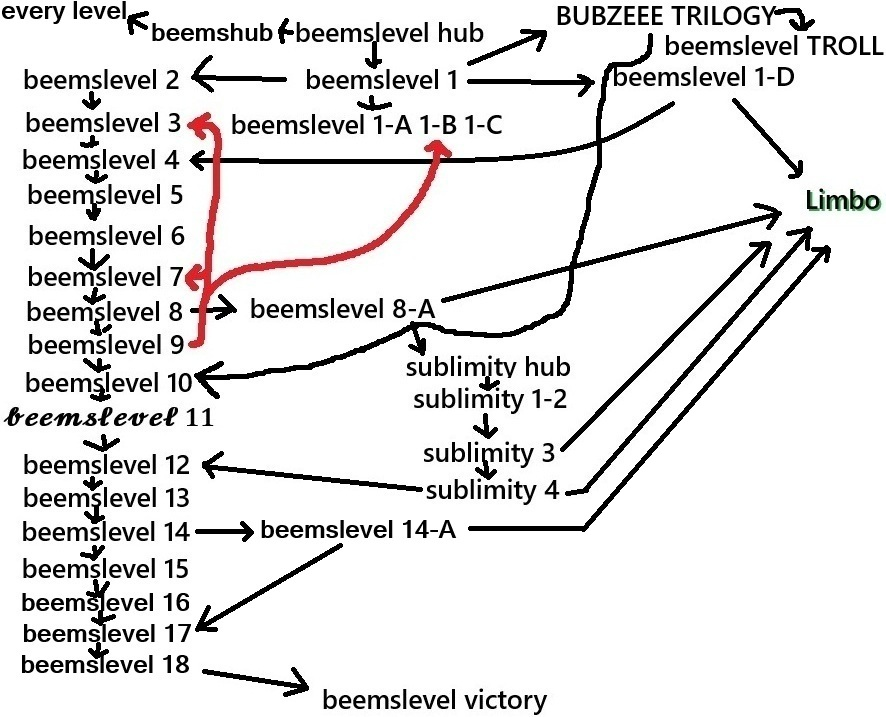
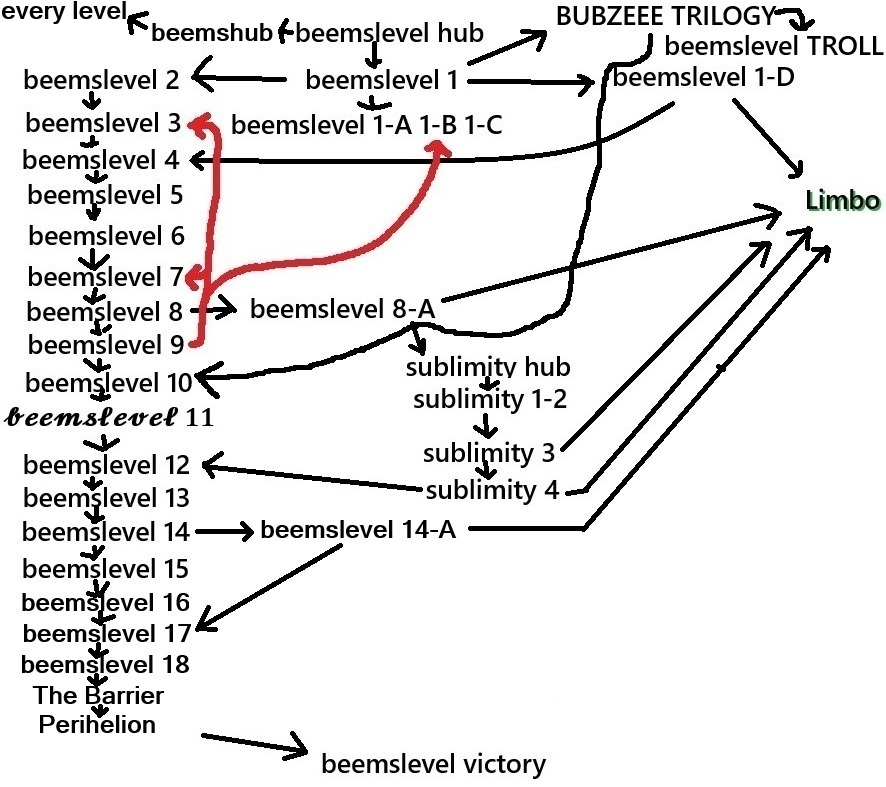
new level and ending soon

Changed region(s): [[0.0, 0.0, 1.0, 0.9512], [0.2438, 0.9205, 0.64, 1.0], [0.2438, 0.7978, 0.3352, 0.8591]]

diff --git a/beemsrooms/Assets/beemslevel19.html b/beemsrooms/Assets/beemslevel19.html
@@ -1,0 +1,71 @@
+<html>
+    <head>
+        <title>The Barrier</title>
+        <link rel="icon" href="invertedsigmacat.png">
+        <style>
+            body {
+                font-family: "arial";
+                background-image: url('invertedsigmacat.png'); /* Replace with your image path */
+                margin: 0; /* Remove default margin */
+                display: flex; /* Use flexbox */
+                flex-direction: column; /* Stack elements vertically */
+                justify-content: center; /* Center elements vertically */
+                align-items: center; /* Center elements horizontally */
+                height: 100vh; /* Set the height to fill the viewport */
+                gap: 10px;
+                color: white;
+            }
+            #container {
+                background-image: url("blackwhitegradient.jpg");
+                background-size: cover;
+                background-position: center;
+                background-repeat: no-repeat;
+                border-radius: 10px; /* Rounded corners */
+                border: 5px solid #000000; /* Border color */
+                padding: 20px; /* Padding inside the container */
+                box-shadow: 0px 0px 20px rgba(0, 0, 0, 0.5); /* Shadow effect */
+                text-align: center; /* Center text inside the container */
+            }
+            button {
+                color: rgb(255, 255, 255); /* Button text color */
+                cursor: pointer; /* Pointer cursor on hover */
+                background-image: url("blackwhitegradient.jpg");
+                background-size: cover;
+                background-position: center;
+                background-repeat: no-repeat;
+            }
+            #barrier {
+                font-size: 50px; /* Font size for the title */
+            }
+        </style>
+    </head>
+    <body>
+        <div id="container">
+            <h1 id="barrier">The Barrier</h1>
+            <h1>the code is in these levels:</h1>
+            <h4>beemslevel 11: 1st and 2nd digits are how many words are in the first sentence.</h4>
+            <h4>beemslevel 12: 3rd and 4th digits are how long the level is.</h4>
+            <h4>beemslevel 14: 5rd, 6th and 7th digits are how much score you have to get.</h4>
+            <h4>beemslevel 18: 8th digit is how many wigs you have to collect.</h4>
+            <input id="code"><button id="submit" onclick="checkCode()">Submit</button>
+            <br><br>
+            <button onclick="window.location.href = 'beemslevel11.html';">Beemslevel 11</button>
+            <button onclick="window.location.href = 'beemslevel12.html';">Beemslevel 12</button>
+            <button onclick="window.location.href = 'beemslevel14.html';">Beemslevel 14</button>
+            <button onclick="window.location.href = 'beemslevel18.html';">Beemslevel 18</button>
+        </div>
+        <script>
+            const input = document.getElementById("code");
+            const submitButton = document.getElementById("submit");
+            const correctCode = "14455008"; // Replace with the actual code
+            function checkCode() {
+                if (input.value === correctCode) {
+                    alert("⍓□◆ ♋♍⧫◆♋●●⍓ ♎♓♎ ♓⧫✍ 🕈♏●● ♑□□♎ ●◆♍🙵 ♓⧫⬧ ■□⬥ □■♏ □♐ ⧫♒♏ ●♋⬧⧫ ●♏❖♏●⬧ ♌♏♐□❒♏ ♌♓■♑♏❒●♋■♎");
+                    window.location.href = "beemslevel20.html"; // Redirect to the next level
+                } else {
+                    alert("❌");
+                }
+            }
+        </script>
+    </body>
+</html>

diff --git a/beemsrooms/beemslevel hub.html b/beemsrooms/beemslevel hub.html
@@ -42,6 +42,7 @@
 	<a href="Assets/beemslevel1.html">
 		<img class="lv1door" src="https://www.munsterjoinery.ie/media/catalog/product/cache/8c946eeaf848c820b01e717f19e4475b/p/r/prestige_4_panel2_ve944lstxztgu1li.jpg" width="200px">
 	</a>
+	<h1>Goal: Make it all the way from Beemslevel Hub to BINGERLAND</h1>
 	<div class="game-container">
 		<h1 class="underline-text">Rules of the game</h1>
 		<h3>1. do NOT use inspect element</h3>
@@ -51,40 +52,42 @@
 		<h3>5. DO NOT AND I MEAN DO NOT CHANGE THE URL TO SKIP LEVELS</h3>
 		<br>
 		<h1 class="underline-text">Every single level added:</h1>
-		<h3>beemslevel hub</h3>
-		<h3>beemslevel 1</h3>
-		<h3>beemslevel 1-A</h3>
-		<h3>beemslevel 1-B</h3>
-		<h3>beemslevel 1-C</h3>
-		<h3>beemslevel 1-D</h3>
-		<h3>beemslevel 2</h3>
-		<h3>beemslevel 3</h3>
-		<h3>beemslevel 4</h3>
-		<h3>beemslevel 5</h3>
-		<h3>beemslevel 6</h3>
-		<h3>beemslevel 7</h3> 
-		<h3>beemslevel 8</h3>
-		<h3>beemslevel 8-A</h3>
-		<h3>beemslevel 9</h3> 
-		<h3>beemslevel 10</h3>
-		<h3>beemslevel 11</h3>
-		<h3>beemslevel 12</h3>
-		<h3>beemslevel 13</h3>
-		<h3>beemslevel 14</h3>
-		<h3>beemslevel 14-A</h3>
-		<h3>beemslevel 15</h3>
-		<h3>beemslevel 16</h3>
-		<h3>beemslevel 17</h3>
-		<h3>beemslevel 18</h3>
-		<h3>beemslevel victory</h3>
+		<h3>Beemslevel hub</h3>
+		<h3>Beemslevel 1</h3>
+		<h3>Beemslevel 1-A</h3>
+		<h3>Beemslevel 1-B</h3>
+		<h3>Beemslevel 1-C</h3>
+		<h3>Beemslevel 1-D</h3>
+		<h3>Beemslevel 2</h3>
+		<h3>Beemslevel 3</h3>
+		<h3>Beemslevel 4</h3>
+		<h3>Beemslevel 5</h3>
+		<h3>Beemslevel 6</h3>
+		<h3>Beemslevel 7</h3> 
+		<h3>Beemslevel 8</h3>
+		<h3>Beemslevel 8-A</h3>
+		<h3>Beemslevel 9</h3> 
+		<h3>Beemslevel 10</h3>
+		<h3>Beemslevel 11</h3>
+		<h3>Beemslevel 12</h3>
+		<h3>Beemslevel 13</h3>
+		<h3>Beemslevel 14</h3>
+		<h3>Beemslevel 14-A</h3>
+		<h3>Beemslevel 15</h3>
+		<h3>Beemslevel 16</h3>
+		<h3>Beemslevel 17</h3>
+		<h3>Beemslevel 18</h3>
+		<h3>The Barrier</h3>
+		<h3>Perihelion - unfinished</h3>
+		<h3>Beemslevel victory</h3>
 		<h3>Limbo</h3>
-		<h3>sublimity hub</h3>
-		<h3>sublimity 1</h3>
-		<h3>sublimity 2</h3>
-		<h3>sublimity 3</h3>
-		<h3>sublimity 4</h3>
+		<h3>Sublimity hub</h3>
+		<h3>Sublimity 1</h3>
+		<h3>Sublimity 2</h3>
+		<h3>Sublimity 3</h3>
+		<h3>Sublimity 4</h3>
 		<h3>BUBZEEE TRILOGY</h3>
-		<h3>beemslevel TROLL</h3>
+		<h3>Beemslevel TROLL</h3>
 		<h2 class="underline-text">Also a little tip is you can zoom in and out if the screen is too small for the game because i have a pretty big monitor</h2>
 	</div>
 	<img src="Assets/mapoflevels.jpg">

diff --git a/beemsrooms/Assets/beemshub.html b/beemsrooms/Assets/beemshub.html
@@ -43,13 +43,15 @@
         <button onclick="window.location.href = 'beemslevel16.html';">Beemslevel 16</button>
         <button onclick="window.location.href = 'beemslevel17.html';">Beemslevel 17</button>
         <button onclick="window.location.href = 'beemslevel18.html';">Beemslevel 18</button>
+        <button onclick="window.location.href = 'beemslevel19.html';">The Barrier</button>
+        <button onclick="window.location.href = 'beemslevel20.html';">Perihelion</button>
+        <button onclick="window.location.href = 'beemslevelVictory.html';">Beemslevel Victory</button>
         <button onclick="window.location.href = 'sublimityhub.html';">Sublimity hub</button>
         <button onclick="window.location.href = 'sublimity1.html';">Sublimity 1</button>
         <button onclick="window.location.href = 'sublimity2.html';">Sublimity 2</button>
         <button onclick="window.location.href = 'sublimity3.html';">Sublimity 3</button>
         <button onclick="window.location.href = 'sublimity4.html';">Sublimity 4</button>
-        <button onclick="window.location.href = 'beemslevelVictory.html';">Beemslevel Victory</button>
         <button onclick="window.location.href = 'bubzeeetrilogy.html';">BUBZEEE TRILOGY</button>
-        <button onclick="window.location.href = 'beemslevelTROLL.html';">beemslevel TROLL</button>
+        <button onclick="window.location.href = 'beemslevelTROLL.html';">Beemslevel TROLL</button>
         <button onclick="window.location.href = 'Limbo.html';">Limbo</button>
 </html>

diff --git a/beemsrooms/Assets/beemslevel18.html b/beemsrooms/Assets/beemslevel18.html
@@ -15,6 +15,8 @@
                 text-align: center;
                 margin: 0;
                 padding: 0;
+                background-image: url('Lv18Maze.jpg');
+                background-repeat: no-repeat;
             }
             img {
                 width: 75%;
@@ -265,7 +267,7 @@
                 }
                 
                 function drawFog() {
-                    ctx.drawImage(fog, player.x - 750, player.y - 700, 1500, 1500); // Draw the fog over the entire canvas
+                    ctx.drawImage(fog, player.x - 825, player.y - 750, 1650, 1650); // Draw the fog over the entire canvas
                 }
                 
                 function collectWig() {
@@ -292,7 +294,7 @@
                                 win.play();
                                 theme.pause();
                                 setTimeout(() => {
-                                    window.location.href = "beemslevelVictory.html"; // Redirect to next level
+                                    window.location.href = "beemslevel19.html"; // Redirect to next level
                                 }, 1400); // 1500 milliseconds = 1.5 seconds
                             }
                         }

diff --git a/beemsrooms/Assets/beemslevel11.html b/beemsrooms/Assets/beemslevel11.html
@@ -38,7 +38,7 @@
     </style>
 </head>
 <body>
-    <h1>This is a checkpoint level and if you fail you will be teleported here</h1>
+    <h1>This is a checkpoint level and if you fail you will be teleported here.</h1>
     <button onclick="window.location.href='beemslevel12.html';">Continue</button>
     <h4> good luck</h4>
 </body>

diff --git a/beemsrooms/Assets/beemslevel12.html b/beemsrooms/Assets/beemslevel12.html
@@ -358,7 +358,7 @@ p {
 
 <body>
     <div class="menubar">
-        <div id="timer" style="font-size: 2em; color: white;">goodluck cuh</div>
+        <div id="timer" style="font-size: 2em; color: white;">TIME LEFT: 45</div>
         <h2
             style="color:rgb(70, 50, 52);
             font-family: 'Lucida Sans', 

diff --git a/beemsrooms/Assets/beemslevel20.html b/beemsrooms/Assets/beemslevel20.html
@@ -1,0 +1,1 @@
+<button onclick="window.location.href = 'beemslevelVictory.html';">Unfinished level</button>
